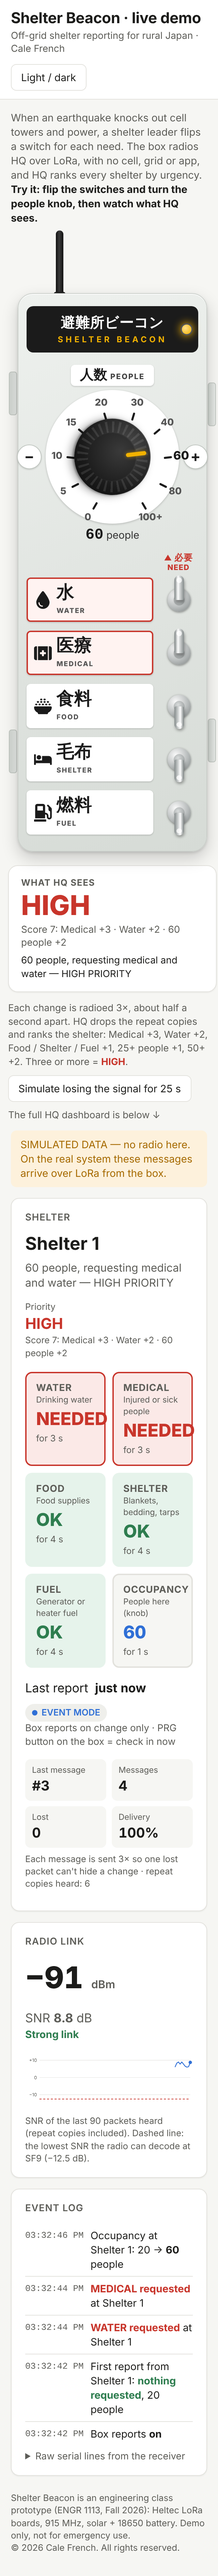
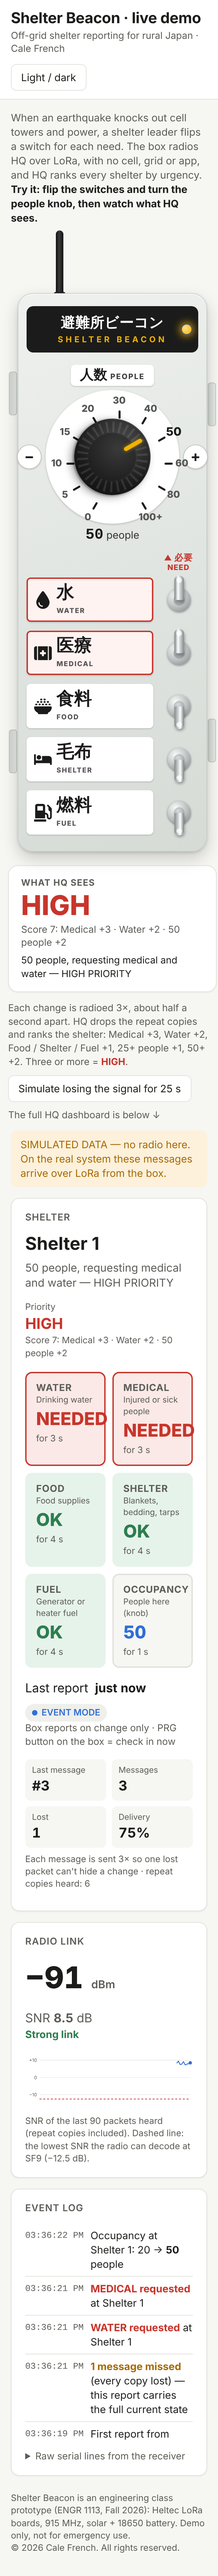
Demo knob: 11 detents (adds 50) to match the Alpha 11-detent pot
Claude-Session: https://claude.ai/code/session_014XA1GBdRkz1fNkNYGeD8bD

diff --git a/index.html b/index.html
@@ -792,7 +792,7 @@
   const JP = { W: "水", M: "医療", FD: "食料", SH: "毛布", FU: "燃料" };
   const ICON = {"W": "<svg stroke=\"currentColor\" fill=\"currentColor\" stroke-width=\"0\" viewBox=\"0 0 384 512\" aria-hidden=\"true\" height=\"1em\" width=\"1em\" xmlns=\"http://www.w3.org/2000/svg\"><path d=\"M192 512C86 512 0 426 0 320C0 228.8 130.2 57.7 166.6 11.7C172.6 4.2 181.5 0 191.1 0l1.8 0c9.6 0 18.5 4.2 24.5 11.7C253.8 57.7 384 228.8 384 320c0 106-86 192-192 192zM96 336c0-8.8-7.2-16-16-16s-16 7.2-16 16c0 61.9 50.1 112 112 112c8.8 0 16-7.2 16-16s-7.2-16-16-16c-44.2 0-80-35.8-80-80z\"></path></svg>", "M": "<svg stroke=\"currentColor\" fill=\"currentColor\" stroke-width=\"0\" viewBox=\"0 0 576 512\" aria-hidden=\"true\" height=\"1em\" width=\"1em\" xmlns=\"http://www.w3.org/2000/svg\"><path d=\"M64 32C28.7 32 0 60.7 0 96L0 416c0 35.3 28.7 64 64 64l32 0L96 32 64 32zm64 0l0 448 320 0 0-448L128 32zM512 480c35.3 0 64-28.7 64-64l0-320c0-35.3-28.7-64-64-64l-32 0 0 448 32 0zM256 176c0-8.8 7.2-16 16-16l32 0c8.8 0 16 7.2 16 16l0 48 48 0c8.8 0 16 7.2 16 16l0 32c0 8.8-7.2 16-16 16l-48 0 0 48c0 8.8-7.2 16-16 16l-32 0c-8.8 0-16-7.2-16-16l0-48-48 0c-8.8 0-16-7.2-16-16l0-32c0-8.8 7.2-16 16-16l48 0 0-48z\"></path></svg>", "FD": "<svg stroke=\"currentColor\" fill=\"currentColor\" stroke-width=\"0\" viewBox=\"0 0 512 512\" aria-hidden=\"true\" height=\"1em\" width=\"1em\" xmlns=\"http://www.w3.org/2000/svg\"><path d=\"M176 56c0-13.3 10.7-24 24-24l16 0c13.3 0 24 10.7 24 24s-10.7 24-24 24l-16 0c-13.3 0-24-10.7-24-24zm24 48l16 0c13.3 0 24 10.7 24 24s-10.7 24-24 24l-16 0c-13.3 0-24-10.7-24-24s10.7-24 24-24zM56 176l16 0c13.3 0 24 10.7 24 24s-10.7 24-24 24l-16 0c-13.3 0-24-10.7-24-24s10.7-24 24-24zM0 283.4C0 268.3 12.3 256 27.4 256l457.1 0c15.1 0 27.4 12.3 27.4 27.4c0 70.5-44.4 130.7-106.7 154.1L403.5 452c-2 16-15.6 28-31.8 28l-231.5 0c-16.1 0-29.8-12-31.8-28l-1.8-14.4C44.4 414.1 0 353.9 0 283.4zM224 200c0-13.3 10.7-24 24-24l16 0c13.3 0 24 10.7 24 24s-10.7 24-24 24l-16 0c-13.3 0-24-10.7-24-24zm-96 0c0-13.3 10.7-24 24-24l16 0c13.3 0 24 10.7 24 24s-10.7 24-24 24l-16 0c-13.3 0-24-10.7-24-24zm-24-96l16 0c13.3 0 24 10.7 24 24s-10.7 24-24 24l-16 0c-13.3 0-24-10.7-24-24s10.7-24 24-24zm216 96c0-13.3 10.7-24 24-24l16 0c13.3 0 24 10.7 24 24s-10.7 24-24 24l-16 0c-13.3 0-24-10.7-24-24zm-24-96l16 0c13.3 0 24 10.7 24 24s-10.7 24-24 24l-16 0c-13.3 0-24-10.7-24-24s10.7-24 24-24zm120 96c0-13.3 10.7-24 24-24l16 0c13.3 0 24 10.7 24 24s-10.7 24-24 24l-16 0c-13.3 0-24-10.7-24-24zm-24-96l16 0c13.3 0 24 10.7 24 24s-10.7 24-24 24l-16 0c-13.3 0-24-10.7-24-24s10.7-24 24-24zM296 32l16 0c13.3 0 24 10.7 24 24s-10.7 24-24 24l-16 0c-13.3 0-24-10.7-24-24s10.7-24 24-24z\"></path></svg>", "SH": "<svg stroke=\"currentColor\" fill=\"currentColor\" stroke-width=\"0\" viewBox=\"0 0 640 512\" aria-hidden=\"true\" height=\"1em\" width=\"1em\" xmlns=\"http://www.w3.org/2000/svg\"><path d=\"M176 256c44.11 0 80-35.89 80-80s-35.89-80-80-80-80 35.89-80 80 35.89 80 80 80zm352-128H304c-8.84 0-16 7.16-16 16v144H64V80c0-8.84-7.16-16-16-16H16C7.16 64 0 71.16 0 80v352c0 8.84 7.16 16 16 16h32c8.84 0 16-7.16 16-16v-48h512v48c0 8.84 7.16 16 16 16h32c8.84 0 16-7.16 16-16V240c0-61.86-50.14-112-112-112z\"></path></svg>", "FU": "<svg stroke=\"currentColor\" fill=\"currentColor\" stroke-width=\"0\" viewBox=\"0 0 512 512\" aria-hidden=\"true\" height=\"1em\" width=\"1em\" xmlns=\"http://www.w3.org/2000/svg\"><path d=\"M336 448H16c-8.8 0-16 7.2-16 16v32c0 8.8 7.2 16 16 16h320c8.8 0 16-7.2 16-16v-32c0-8.8-7.2-16-16-16zm157.2-340.7l-81-81c-6.2-6.2-16.4-6.2-22.6 0l-11.3 11.3c-6.2 6.2-6.2 16.4 0 22.6L416 97.9V160c0 28.1 20.9 51.3 48 55.2V376c0 13.2-10.8 24-24 24s-24-10.8-24-24v-32c0-48.6-39.4-88-88-88h-8V64c0-35.3-28.7-64-64-64H96C60.7 0 32 28.7 32 64v352h288V304h8c22.1 0 40 17.9 40 40v27.8c0 37.7 27 72 64.5 75.9 43 4.3 79.5-29.5 79.5-71.7V152.6c0-17-6.8-33.3-18.8-45.3zM256 192H96V64h160v128z\"></path></svg>"};
   let occTimer = null;
-  const OCC = [0, 5, 10, 15, 20, 30, 40, 60, 80, 100];          // same 10 clicks as the real knob
+  const OCC = [0, 5, 10, 15, 20, 30, 40, 50, 60, 80, 100];      // same 11 clicks as the real knob
   const SWEEP = 300, START = -150;                              // degrees, 0 = straight up
   let kIdx = 4, kAngle = 0;
   const angleOf = i => START + i * SWEEP / (OCC.length - 1);
